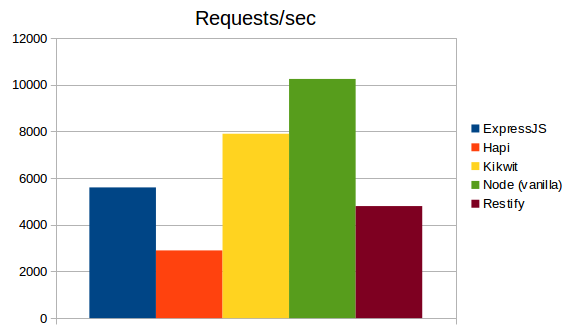
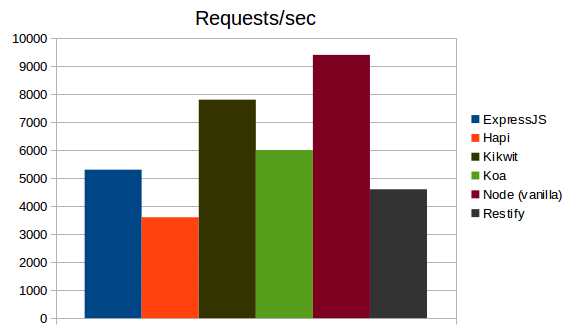
bench script

diff --git a/hapi/index.js b/hapi/index.js
@@ -14,36 +14,36 @@ server.route({
     path:'/zero/params', 
     handler: function (request, reply) {
 
-        return reply('Zero params');
+        return reply('Zero params').header('Connection', 'close');
     }
-}); // 3100 // ab -c 300 -n 200000 http://localhost:3000/zero/params 
+}); 
 
 server.route({
     method: 'GET',
     path:'/one/param/:first', 
     handler: function (request, reply) {
 
-        return reply(request.params.first);
+        return reply(request.params.first).header('Connection', 'close');
     }
-});  // 2790 // ab -c 300 -n 200000 http://localhost:3000/one/param/first
+}); 
 
 server.route({
     method: 'GET',
     path:'/two/params/:first/:second', 
     handler: function (request, reply) {
 
-        return reply(request.params.first + req.params.second);
+        return reply(request.params.first + req.params.second).header('Connection', 'close');
     }
-}); // 2770 // ab -c 300 -n 200000 http://localhost:3000/two/params/first/second
+}); 
 
 server.route({
     method: 'GET',
     path:'/three/params/:first/:second/:third', 
     handler: function (request, reply) {
 
-        return reply(request.params.first + req.params.second + req.params.third);
+        return reply(request.params.first + req.params.second + req.params.third).header('Connection', 'close');
     }
-}); // 2900 // ab -c 300 -n 200000 http://localhost:3000/three/params/first/second/third
+});
 
 server.start((err) => {
 

diff --git a/restify/index.js b/restify/index.js
@@ -2,24 +2,28 @@ var restify = require('restify');
 var server = restify.createServer();
  
 server.get('/zero/params', function (req, res, next) {
+  res.set('Connection', 'close');
   res.send('Zero params');
   next();
 }); // 4850 // ab -c 300 -n 200000 http://localhost:3000/zero/params
  
 server.get('/one/param/:first', function (req, res, next) {
+  res.set('Connection', 'close');
   res.send(req.params.first);
   next();
-}); // 4850 // ab -c 300 -n 200000 -H "accept: text/plain" http://localhost:3000/one/param/first
+}); // 4850 // ab -c 300 -n 200000 http://localhost:3000/one/param/first
  
 server.get('/two/params/:first/:second', function (req, res, next) {
+  res.set('Connection', 'close');
   res.send(req.params.first + req.params.second);
   next();
-}); // 4800 // ab -c 300 -n 200000 -H "accept: text/plain" http://localhost:3000/two/params/first/second
+}); // 4800 // ab -c 300 -n 200000 http://localhost:3000/two/params/first/second
 
 server.get('/three/params/:first/:second/:third', function (req, res, next) {
+  res.set('Connection', 'close');
   res.send(req.params.first + req.params.second + req.params.third);
   next();
-}); // 4800 // ab -c 300 -n 200000 -H "accept: text/plain" http://localhost:3000/three/params/first/second/third
+}); // 4800 // ab -c 300 -n 200000 http://localhost:3000/three/params/first/second/third
  
 server.listen(3000, () => {
   console.log('Restify server listening on port 3000');

diff --git a/kikwit/controllers/home.js b/kikwit/controllers/home.js
@@ -10,28 +10,32 @@ export default class Home {
     @get
     zero(ctx) {
 
+        ctx.setHeader('Connection', 'close');
         ctx.send('Zero params');    
-    } // 8200 // ab -c 300 -n 200000 http://localhost:3000/zero/params
+    }
     
     @route('/one/param/:first')
     @get
     one(ctx) {
 
+        ctx.setHeader('Connection', 'close');
         ctx.send(ctx.params.first);      
-    } // 8000 // ab -c 300 -n 200000 http://localhost:3000/one/param/first
+    }
     
     @route('/two/params/:first/:second')
     @get
     two(ctx) {
 
+        ctx.setHeader('Connection', 'close');
         ctx.send(ctx.params.first + ctx.params.second);      
-    } // 7900 // ab -c 300 -n 200000 http://localhost:3000/two/params/first/second
+    } 
     
     @route('/three/params/:first/:second/:third')
     @get
     three(ctx) {
 
+        ctx.setHeader('Connection', 'close')
         ctx.send(ctx.params.first + ctx.params.second + ctx.params.third);      
-    } // 7800 // ab -c 300 -n 200000 http://localhost:3000/three/params/first/second/third      
+    }
 }
 

diff --git a/express/index.js b/express/index.js
@@ -2,20 +2,24 @@ var express = require('express');
 var app = express();
  
 app.get('/zero/params', function (req, res) {
+  res.header('Connection', 'close');
   res.send('Zero params');
-}); // 5700 // ab -c 300 -n 200000 http://localhost:3000/zero/params
+});
  
 app.get('/one/param/:first', function (req, res) {
+  res.header('Connection', 'close');
   res.send(req.params.first);
-}); // 5600 // ab -c 300 -n 200000 http://localhost:3000/one/param/first
- 
+}); 
+
 app.get('/two/params/:first/:second', function (req, res) {
+  res.header('Connection', 'close');
   res.send(req.params.first + req.params.second);
-}); // 5500 // ab -c 300 -n 200000 http://localhost:3000/two/params/first/second
+}); 
 
 app.get('/three/params/:first/:second/:third', function (req, res) {
+  res.header('Connection', 'close');
   res.send(req.params.first + req.params.second + req.params.third);
-}); // 5450 // ab -c 300 -n 200000 http://localhost:3000/three/params/first/second/third
+});
  
 app.listen(3000, () => {
   console.log('Express server listening on port 3000');

diff --git a/koa/index.js b/koa/index.js
@@ -1,0 +1,14 @@
+var koa = require('koa');
+var app = koa();
+
+app.use(function *(){
+  
+	this.set('Connection', 'close');
+  this.body = 'Zero params';
+}); 
+
+app.listen(3000, () => {
+  console.log('Koa server listening on port 3000');
+});
+
+

diff --git a/node-vanilla/index.js b/node-vanilla/index.js
@@ -2,6 +2,7 @@ var http = require("http");
 
 var server = http.createServer((request, response) => {
 
+  response.setHeader('Connection', 'close');
   response.end("Zero params");
 }); // 10200
 
